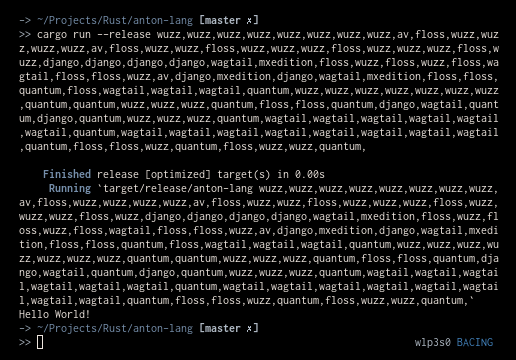
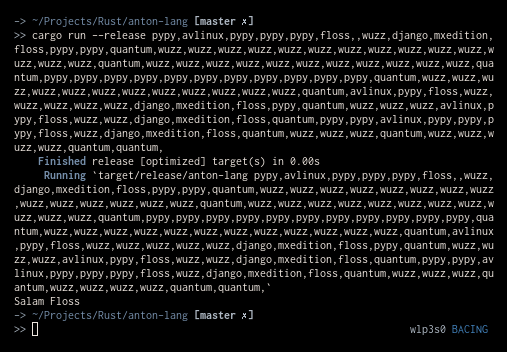
Implement converter, change opcode, add floss

diff --git a/src/main.rs b/src/main.rs
@@ -1,5 +1,5 @@
 use std::env;
-use std::io::Read;
+use std::io::{Read, Write};
 use std::fs::File;
 
 #[derive(Debug)]
@@ -31,6 +31,29 @@ enum Instruction {
     Loop(Vec<Instruction>)
 }
 
+fn convert_code(source: String) -> String {
+
+    let mut converted_source = String::new();
+
+    for op in source.chars() {
+        let opcode = match op {
+            '>' => "floss,",
+            '<' => "django,",
+            '+' => "wuzz,",
+            '-' => "pypy,",
+            '.' => "quantum,",
+            ',' => "wagtail,",
+            '[' => "avlinux,",
+            ']' => "mxedition,",
+            _ => ""
+        };
+
+        converted_source.push_str(opcode);
+    }
+
+    converted_source
+}
+
 fn lex(source: String) -> Vec<OpCode> {
     let mut operations = Vec::new();
 
@@ -41,10 +64,10 @@ fn lex(source: String) -> Vec<OpCode> {
             "floss" => Some(OpCode::AntonIncPtr),
             "django" => Some(OpCode::AntonDecPtr),
             "wuzz" => Some(OpCode::AntonInc),
-            "wagtail" => Some(OpCode::AntoncDec),
+            "pypy" => Some(OpCode::AntoncDec),
             "quantum" => Some(OpCode::NovelSifo),
-            "linux" => Some(OpCode::NovelSifoRead),
-            "av" => Some(OpCode::LoopBegin),
+            "wagtail" => Some(OpCode::NovelSifoRead),
+            "avlinux" => Some(OpCode::LoopBegin),
             "mxedition" => Some(OpCode::LoopEnd),
             _ => None
         };
@@ -136,31 +159,59 @@ fn main() {
     // Determine which file to execute
     let args: Vec<String> = env::args().collect();
 
-    if args.len() != 2 {
-        println!("usage: at <file.at>");
+    if args.len() < 2 {
+        println!("usage: at <file.at> or at convert file.bf");
         std::process::exit(1);
     }
 
     let input = &args[1];
 
-    let mut source = String::new();
+    match input.as_str() {
+        "convert" => {
+            if args.len() < 3 {
+                println!("usage: at <file.at> or at convert file.bf");
+                std::process::exit(1);
+            }
 
-    match File::open(input) {
-        Ok(mut v) => {
-            v.read_to_string(&mut source).expect("failed to read program file");
+            let mut bf_source = String::new();
+
+            let mut bf_file = match File::open(&args[2]) {
+                Ok(v) => v,
+                Err(_) => panic!("Cannot open bf file!"),
+            };
+
+            bf_file.read_to_string(&mut bf_source).unwrap();
+
+            let mut file = match File::create(&args[2].replace(".bf", ".at")) {
+                Ok(f) => f,
+                Err(_) => panic!("Cannot create file!"),
+            };
+
+            let convert = convert_code(bf_source);
+
+            file.write_all(convert.as_bytes()).unwrap();
         }
-        Err(_) => {
-            // To interpret directly
-            source.push_str(input);
+        _ => {
+            let mut source = String::new();
+
+            match File::open(input) {
+                Ok(mut v) => {
+                    v.read_to_string(&mut source).expect("failed to read program file");
+                }
+                Err(_) => {
+                    // To interpret directly
+                    source.push_str(input);
+                }
+            };
+
+            let opcodes = lex(source);
+
+            let program = parse(opcodes);
+
+            let mut tape: Vec<u8> = vec![0; 1024];
+            let mut data_pointer = 512;
+
+            run(&program, &mut tape, &mut data_pointer);
         }
-    };
-
-    let opcodes = lex(source);
-
-    let program = parse(opcodes);
-
-    let mut tape: Vec<u8> = vec![0; 1024];
-    let mut data_pointer = 512;
-
-    run(&program, &mut tape, &mut data_pointer);
+    }
 }

diff --git a/README.md b/README.md
@@ -9,3 +9,9 @@ Anton Wibowo programming language, based on the [Brainfuck Esoteric Language](ht
 
 ### From file
 ![usage-2](assets/usage-2.png)
+
+### Converter
+
+You can convert brainfuck code into anton code like this
+
+![usage-converter](assets/usage-converter.png)
